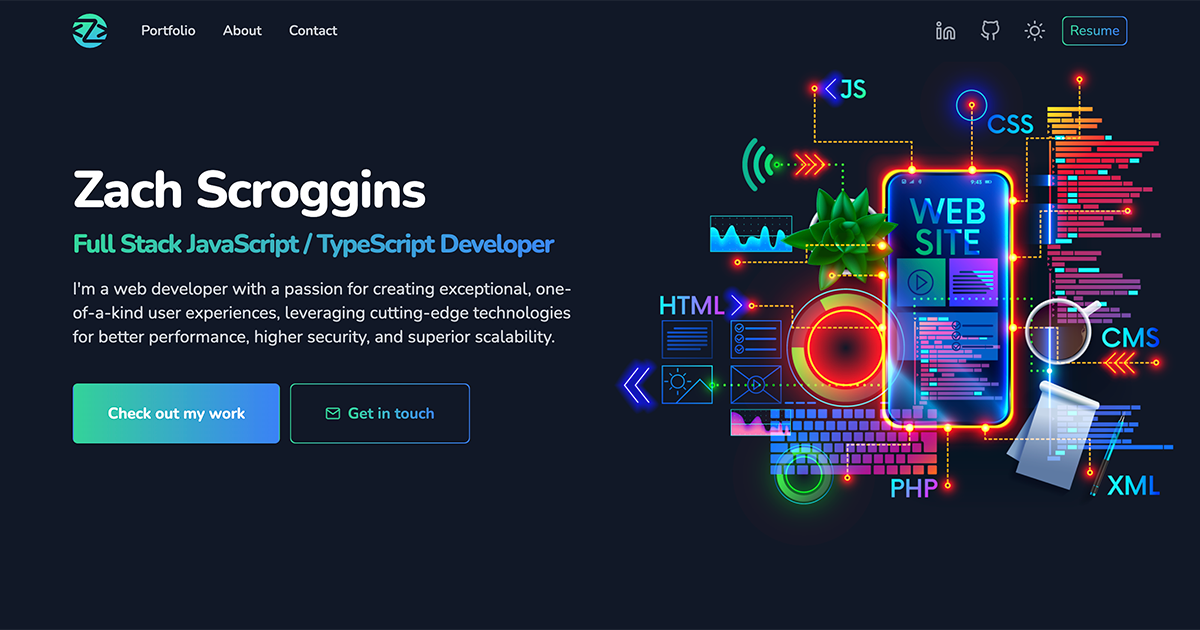
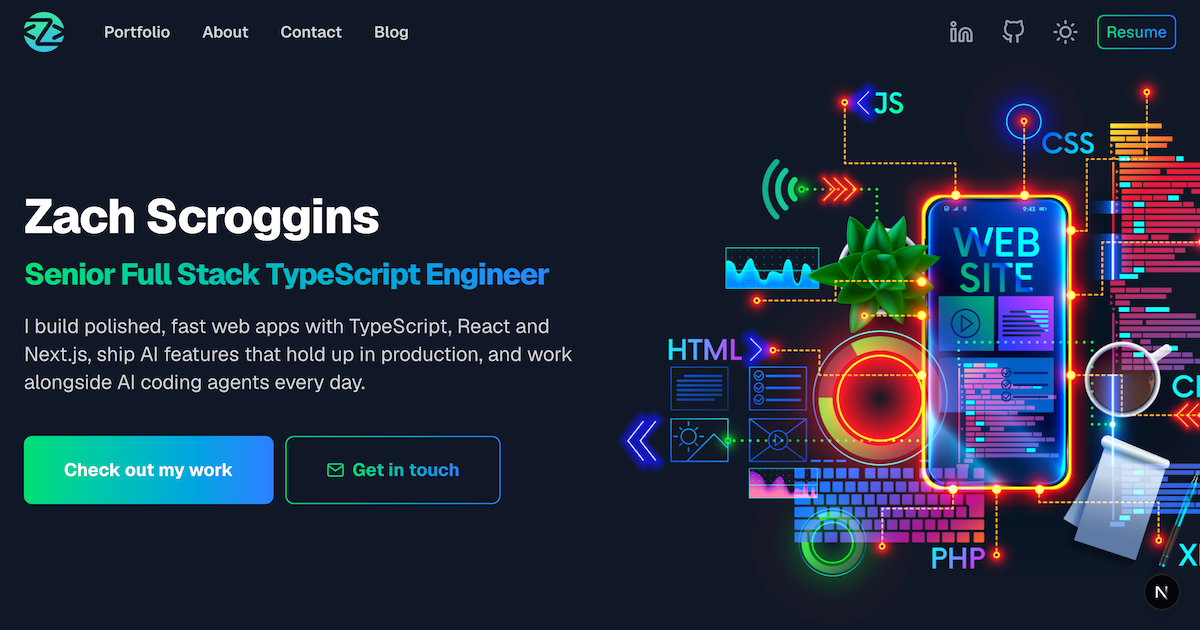
feat: full post body in RSS feed, new OG image

diff --git a/sanity/types.ts b/sanity/types.ts
@@ -530,12 +530,45 @@ export type SITEMAP_QUERY_RESULT = {
 
 // Source: ../my-website/sanity/queries.ts
 // Variable: RSS_QUERY
-// Query: *[_type == "post" && defined(slug.current)] | order(publishedAt desc, _createdAt asc)[0...50]{    title,    "slug": slug.current,    publishedAt,    description  }
+// Query: *[_type == "post" && defined(slug.current)] | order(publishedAt desc, _createdAt asc)[0...50]{    title,    "slug": slug.current,    publishedAt,    description,    body  }
 export type RSS_QUERY_RESULT = Array<{
   title: string;
   slug: string;
   publishedAt: string;
   description: string;
+  body: Array<
+    | ({
+        _key: string;
+      } & Code)
+    | {
+        children?: Array<{
+          marks?: Array<string>;
+          text?: string;
+          _type: 'span';
+          _key: string;
+        }>;
+        style?: 'blockquote' | 'h1' | 'h2' | 'h3' | 'h4' | 'h5' | 'h6' | 'normal';
+        listItem?: 'bullet' | 'number';
+        markDefs?: Array<{
+          href?: string;
+          _type: 'link';
+          _key: string;
+        }>;
+        level?: number;
+        _type: 'block';
+        _key: string;
+      }
+    | {
+        asset?: SanityImageAssetReference;
+        media?: unknown;
+        hotspot?: SanityImageHotspot;
+        crop?: SanityImageCrop;
+        alt: string;
+        caption?: string;
+        _type: 'image';
+        _key: string;
+      }
+  > | null;
 }>;
 
 // Query TypeMap
@@ -550,7 +583,7 @@ declare global {
     '\n  *[_type == "tag" && defined(slug.current)]{"slug": slug.current}\n': TAG_SLUGS_QUERY_RESULT;
     '\n  *[_type == "tag" && slug.current == $slug][0]{\n    _id, name, "slug": slug.current,\n    description,\n    homepageUrl,\n    repoUrl,\n    docsUrl,\n    icon,\n    logo,\n    "posts": *[_type == "post" && references(^._id) && defined(slug.current)]\n      | order(publishedAt desc, _createdAt asc){\n  _id,\n  kind,\n  title,\n  "slug": slug.current,\n  publishedAt,\n  description,\n  tags[]->{_id, name, "slug": slug.current}\n}\n  }\n': TAG_QUERY_RESULT;
     '{\n  "posts": *[_type == "post" && defined(slug.current)]{"slug": slug.current, _updatedAt},\n  "tags": *[_type == "tag" && defined(slug.current)]{"slug": slug.current, _updatedAt}\n}': SITEMAP_QUERY_RESULT;
-    '\n  *[_type == "post" && defined(slug.current)] | order(publishedAt desc, _createdAt asc)[0...50]{\n    title,\n    "slug": slug.current,\n    publishedAt,\n    description\n  }\n': RSS_QUERY_RESULT;
+    '\n  *[_type == "post" && defined(slug.current)] | order(publishedAt desc, _createdAt asc)[0...50]{\n    title,\n    "slug": slug.current,\n    publishedAt,\n    description,\n    body\n  }\n': RSS_QUERY_RESULT;
   }
 }
 // Lets @sanity/client releases that predate the global registry read it too

diff --git a/app/blog/rss.xml/route.ts b/app/blog/rss.xml/route.ts
@@ -1,9 +1,33 @@
 import { BASE_URL } from '@/lib/constants';
+import { urlFor } from '@/sanity/image';
 import { cachedSanityMetadata } from '@/sanity/live';
 import { RSS_QUERY } from '@/sanity/queries';
+import { toHTML, type PortableTextHtmlComponents } from '@portabletext/to-html';
+import type { PortableTextBlock } from 'next-sanity';
 
 const escape = (s: string) =>
   s.replace(/&/g, '&amp;').replace(/</g, '&lt;').replace(/>/g, '&gt;').replace(/"/g, '&quot;');
+
+type ImageValue = { asset?: { _ref: string }; alt?: string; caption?: string };
+type CodeValue = { code?: string; filename?: string };
+
+// Feed readers get plain HTML, so code blocks are unhighlighted <pre><code>.
+const htmlComponents: Partial<PortableTextHtmlComponents> = {
+  types: {
+    code: ({ value }: { value: CodeValue }) =>
+      value.code ? `<pre><code>${escape(value.code)}</code></pre>` : '',
+    image: ({ value }: { value: ImageValue }) => {
+      if (!value.asset) return '';
+      const img = `<img src="${escape(urlFor(value).width(1200).fit('max').url())}" alt="${escape(value.alt ?? '')}" />`;
+      return value.caption
+        ? `<figure>${img}<figcaption>${escape(value.caption)}</figcaption></figure>`
+        : img;
+    },
+  },
+};
+
+// CDATA can't contain "]]>", so split it across two sections.
+const cdata = (s: string) => `<![CDATA[${s.replaceAll(']]>', ']]]]><![CDATA[>')}]]>`;
 
 async function getFeed() {
   'use cache';
@@ -16,18 +40,22 @@ async function getFeed() {
     .filter((post) => post.slug && post.title)
     .map((post) => {
       const url = `${BASE_URL}/blog/${post.slug}`;
+      const content = post.body
+        ? toHTML(post.body as PortableTextBlock[], { components: htmlComponents })
+        : '';
       return `    <item>
       <title>${escape(post.title!)}</title>
       <link>${url}</link>
       <guid isPermaLink="true">${url}</guid>
       ${post.publishedAt ? `<pubDate>${new Date(post.publishedAt).toUTCString()}</pubDate>` : ''}
       ${post.description ? `<description>${escape(post.description)}</description>` : ''}
+      ${content ? `<content:encoded>${cdata(content)}</content:encoded>` : ''}
     </item>`;
     })
     .join('\n');
 
   return `<?xml version="1.0" encoding="UTF-8"?>
-<rss version="2.0" xmlns:atom="http://www.w3.org/2005/Atom">
+<rss version="2.0" xmlns:atom="http://www.w3.org/2005/Atom" xmlns:content="http://purl.org/rss/1.0/modules/content/">
   <channel>
     <title>Zach Scroggins | Blog</title>
     <link>${BASE_URL}/blog</link>

diff --git a/sanity/queries.ts b/sanity/queries.ts
@@ -94,6 +94,7 @@ export const RSS_QUERY = defineQuery(`
     title,
     "slug": slug.current,
     publishedAt,
-    description
+    description,
+    body
   }
 `);

diff --git a/AGENTS.md b/AGENTS.md
@@ -3,9 +3,13 @@
 Zach's personal website. Project overview (this repo, the Sanity Studio repo next to it, shared assets): [`../AGENTS.md`](../AGENTS.md). Read it first.
 
 <!-- BEGIN:nextjs-agent-rules -->
-# This is NOT the Next.js you know
 
-This version has breaking changes — APIs, conventions, and file structure may all differ from your training data. Read the relevant guide in `node_modules/next/dist/docs/` before writing any code. Heed deprecation notices.
+## This is NOT the Next.js you know
+
+This version has breaking changes — APIs, conventions, and file structure may all differ from your training data. Read the relevant guide in `node_modules/next/dist/docs/` (resolved from this file's directory; in monorepos the `next` package may not be visible from the repo root) before writing any code. Heed deprecation notices.
+
+This block is written and re-added by `next dev` — verify at `node_modules/next/dist/server/lib/generate-agent-files.js`. Removing it from a diff only re-creates the uncommitted change; committing it with your work keeps the tree clean.
+
 <!-- END:nextjs-agent-rules -->
 
 ## Stack
